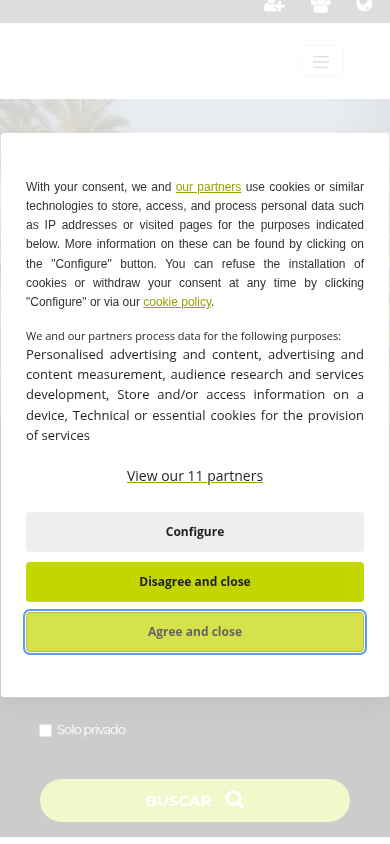
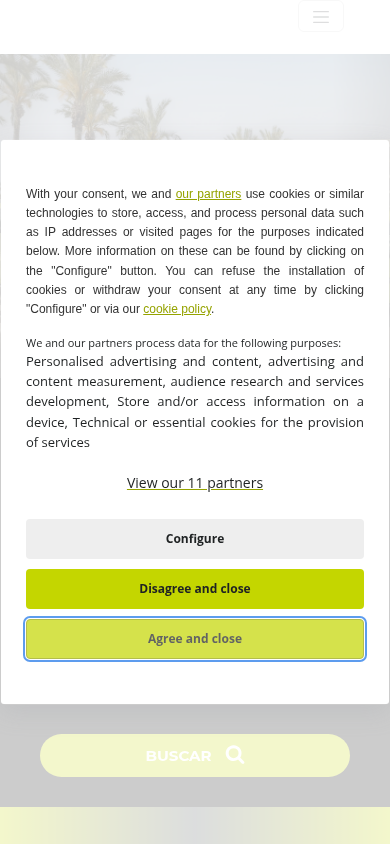
Changes

diff --git a/src/routes/index.tsx b/src/routes/index.tsx
@@ -1,4 +1,4 @@
-import { useSyncExternalStore } from "react";
+import { useState, useSyncExternalStore } from "react";
 import { createFileRoute } from "@tanstack/react-router";
 import capturedCSS from "../styles/site.css?raw";
 
@@ -10,9 +10,11 @@ export const Route = createFileRoute("/")({
 
 function Index() {
   const isMobile = useSyncExternalStore(subscribeMobile, () => matchMedia("(max-width: 767px)").matches, () => false);
+  const [consentOpen, setConsentOpen] = useState(true);
   return (
     <>
       <style>{capturedCSS}</style>
+      {consentOpen && (
       <div className={"didomi-host items-stretch self-auto shadow-none break-inside-auto caption-top flex-initial [&]:flex-row flex-nowrap float-none gap-0 isolation-auto tracking-normal mix-blend-normal object-fill order-0 content-stretch justify-start pointer-events-auto resize-none table-auto no-underline indent-0 text-clip normal-case touch-auto delay-0 duration-0 transition-all ease-[ease] select-auto align-baseline [&]:visible will-change-auto break-normal [-webkit-box-reflect:initial] [-webkit-line-clamp:initial] [-webkit-locale:initial] [-webkit-rtl-ordering:initial] [-webkit-tap-highlight-color:rgba(0,0,0,0)] [-webkit-text-combine:initial] [-webkit-text-decorations-in-effect:initial] [-webkit-text-fill-color:initial] [-webkit-text-security:initial] [-webkit-text-stroke:0px_currentcolor] [-webkit-user-drag:initial] [accent-color:initial] [alignment-baseline:initial] [anchor-name:initial] [anchor-scope:initial] [animation-composition:initial] [animation-delay:0s] [animation-direction:normal] [animation-duration:0s] [animation-fill-mode:none] [animation-iteration-count:1] [animation-name:none] [animation-play-state:running] [animation-range:initial] [animation-timeline:initial] [animation-timing-function:ease] [animation-trigger:initial] [app-region:initial] [aspect-ratio:initial] [backdrop-filter:initial] [backface-visibility:visible] [baseline-shift:initial] [baseline-source:initial] [box-decoration-break:slice] [break-after:auto] [break-before:auto] [buffered-rendering:initial] [caret-animation:initial] [caret-color:auto] [caret-shape:initial] [clip:auto] [clip-path:none] [clip-rule:initial] [color:initial] [color-interpolation:initial] [color-interpolation-filters:initial] [color-rendering:initial] [color-scheme:initial] [column-fill:balance] [column-rule:medium] [column-span:none] [columns:auto] [contain:initial] [contain-intrinsic-block-size:initial] [contain-intrinsic-inline-size:initial] [contain-intrinsic-size:initial] [container:initial] [corner-block-end-shape:initial] [corner-block-start-shape:initial] [corner-shape:initial] [counter-increment:none] [counter-reset:none] [counter-set:initial] [cx:initial] [cy:initial] [d:initial] [dominant-baseline:initial] [dynamic-range-limit:initial] [empty-cells:show] [field-sizing:initial] [fill:initial] [fill-opacity:initial] [fill-rule:initial] [filter:none] [flex-line-count:initial] [flood-color:initial] [flood-opacity:initial] [forced-color-adjust:initial] [frame-sizing:initial] [grid:none] [grid-area:auto] [hyphenate-character:initial] [hyphenate-limit-chars:initial] [hyphens:manual] [image-orientation:initial] [image-rendering:auto] [initial-letter:initial] [interactivity:initial] [interest-delay:initial] [interpolate-size:initial] [justify-items:initial] [justify-self:initial] [lighting-color:initial] [line-break:auto] [list-style:outside_none_disc] [marker:initial] [math-depth:initial] [math-shift:initial] [math-style:initial] [object-position:50%_50%] [object-view-box:initial] [offset:initial] [orphans:2] [overlay:initial] [overscroll-behavior:initial] [overscroll-behavior-block:initial] [overscroll-behavior-inline:initial] [page:initial] [page-margin-safety:initial] [page-orientation:initial] [paint-order:initial] [perspective:none] [perspective-origin:50%_50%] [print-color-adjust:initial] [quotes:initial] [r:initial] [reading-flow:initial] [reading-order:initial] [rotate:initial] [row-rule:initial] [ruby-align:space-around] [ruby-overhang:initial] [ruby-position:over] [rule-break:initial] [rule-inset:initial] [rule-overlap:initial] [rule-visibility-items:initial] [rx:initial] [ry:initial] [scale:initial] [scroll-axis-lock:initial] [scroll-initial-target:initial] [scroll-margin:initial] [scroll-margin-block:initial] [scroll-margin-inline:initial] [scroll-marker-group:initial] [scroll-padding:initial] [scroll-padding-block:initial] [scroll-padding-inline:initial] [scroll-snap-align:initial] [scroll-snap-stop:initial] [scroll-snap-type:none] [scroll-target-group:initial] [scroll-timeline:initial] [scrollbar-color:initial] [scrollbar-gutter:initial] [scrollbar-width:initial] [shape-image-threshold:0] [shape-margin:0px] [shape-outside:none] [shape-rendering:initial] [speak:initial] [stop-color:initial] [stop-opacity:initial] [stroke:initial] [stroke-dasharray:initial] [stroke-dashoffset:initial] [stroke-linecap:initial] [stroke-linejoin:initial] [stroke-miterlimit:initial] [stroke-opacity:initial] [stroke-width:initial] [tab-size:8] [text-anchor:initial] [text-autospace:initial] [text-box:initial] [text-combine-upright:none] [text-decoration-skip-ink:initial] [text-emphasis:none_currentcolor] [text-emphasis-position:over_right] [text-fit:initial] [text-justify:auto] [text-orientation:mixed] [text-rendering:optimizelegibility] [text-shadow:none] [text-size-adjust:initial] [text-spacing-trim:initial] [text-underline-offset:initial] [text-underline-position:auto] [timeline-scope:initial] [timeline-trigger:initial] [transition-behavior:initial] [translate:initial] [trigger-scope:initial] [vector-effect:initial] [view-timeline:initial] [view-transition-class:initial] [view-transition-group:initial] [view-transition-name:initial] [view-transition-scope:initial] [widows:2] [window-drag:initial] [word-spacing:normal] [writing-mode:horizontal-tb] [x:initial] [y:initial] [zoom:initial]"} id="didomi-host" lang="en">
         <div className={isMobile ? "notranslate didomi-screen-xsmall didomi-mobile didomi-consent-popup__a2711963-219d-44fc-82d8-17e974c3dab8" : "notranslate didomi-screen-large didomi-consent-popup__a2711963-219d-44fc-82d8-17e974c3dab8"}>
           <div className="didomi-popup-backdrop didomi-notice-popup didomi-popup__backdrop" id="didomi-popup">
@@ -38,13 +40,13 @@ function Index() {
                     </a>
                   </div>
                   <div className="multiple didomi-buttons didomi-popup-notice-buttons" id="buttons">
-                    <button className="didomi-components-button didomi-button didomi-learn-more-button didomi-button-standard" style={{ color: "rgb(68, 68, 68)", backgroundColor: "rgb(238, 238, 238)", borderRadius: "0px", borderColor: "rgba(34, 34, 34, 0.2)", borderWidth: "1px", display: "block" }} id="didomi-notice-learn-more-button" aria-label="Configure: Configure your consents">
+                    <button onClick={() => setConsentOpen(false)} className="didomi-components-button didomi-button didomi-learn-more-button didomi-button-standard" style={{ color: "rgb(68, 68, 68)", backgroundColor: "rgb(238, 238, 238)", borderRadius: "0px", borderColor: "rgba(34, 34, 34, 0.2)", borderWidth: "1px", display: "block" }} id="didomi-notice-learn-more-button" aria-label="Configure: Configure your consents">
                       <span>Configure</span>
                     </button>
-                    <button className="didomi-components-button didomi-button highlight-button" style={{ color: "rgb(0, 0, 0)", backgroundColor: "rgb(196, 214, 0)", borderRadius: "0px", borderColor: "rgba(196, 214, 0, 0.3)", borderWidth: "1px", display: "block" }} id="didomi-notice-disagree-button" aria-label="Disagree and close: Disagree to our data processing and close">
+                    <button onClick={() => setConsentOpen(false)} className="didomi-components-button didomi-button highlight-button" style={{ color: "rgb(0, 0, 0)", backgroundColor: "rgb(196, 214, 0)", borderRadius: "0px", borderColor: "rgba(196, 214, 0, 0.3)", borderWidth: "1px", display: "block" }} id="didomi-notice-disagree-button" aria-label="Disagree and close: Disagree to our data processing and close">
                       <span>Disagree and close</span>
                     </button>
-                    <button className="didomi-components-button didomi-button highlight-button" style={{ color: "rgb(0, 0, 0)", backgroundColor: "rgb(196, 214, 0)", borderRadius: "0px", borderColor: "rgba(196, 214, 0, 0.3)", borderWidth: "1px", display: "block" }} id="didomi-notice-agree-button" aria-label="Agree and close: Agree to our data processing and close">
+                    <button onClick={() => setConsentOpen(false)} className="didomi-components-button didomi-button highlight-button" style={{ color: "rgb(0, 0, 0)", backgroundColor: "rgb(196, 214, 0)", borderRadius: "0px", borderColor: "rgba(196, 214, 0, 0.3)", borderWidth: "1px", display: "block" }} id="didomi-notice-agree-button" aria-label="Agree and close: Agree to our data processing and close">
                       <span>Agree and close</span>
                     </button>
                   </div>
@@ -55,6 +57,7 @@ function Index() {
           </div>
         </div>
       </div>
+      )}
       <div className="modal fade login-agency login-agency-b2c modal-login-agency w-full" id="myModalLogin" aria-hidden="false" aria-labelledby="myModalLogin" tabIndex={-1}>
         <div className="modal-dialog modal-fullscreen-md-down pointer-events-none">
           <div className="modal-content flex-col pointer-events-auto w-full">
